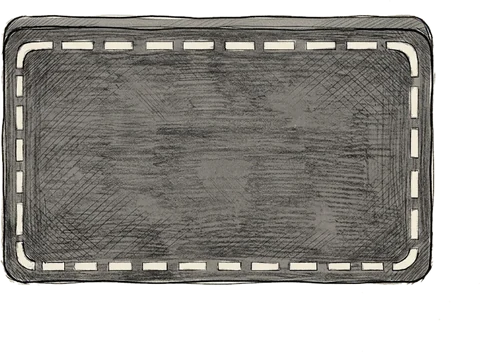
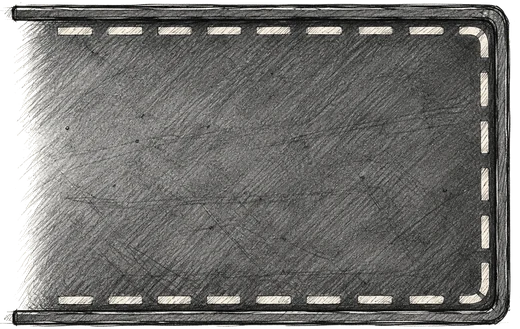
Swap in new road, bay, car and pit-crew art; 10 crew markers; render the crew dialog in a portal
Claude-Session: https://claude.ai/code/session_017xBw5gitytdq9UBNa5UPak

diff --git a/src/components/PitTrack.tsx b/src/components/PitTrack.tsx
@@ -4,12 +4,12 @@ import { steps } from '../content/site'
 import { ROAD_WIDTH, ROAD_X, carPlacement, carStopIndex, type Stop } from '../lib/pitTrack'
 import styles from './PitTrack.module.css'
 
-const BAY_HEIGHT = 112
+const BAY_HEIGHT = 110
 const BAY_MAX_WIDTH = 170
-const ROAD_TILE_W = 76
-const ROAD_TILE_H = 230
-const CAR_W = 54
-const CAR_H = 73
+const ROAD_TILE_W = 60
+const ROAD_TILE_H = 262
+const CAR_W = 53
+const CAR_H = 84
 
 type Layout = {
   width: number
@@ -82,8 +82,8 @@ export function PitTrack({ band, current, reduce }: Props) {
   useEffect(() => {
     if (!layout) return
     const bayX = (card: Layout['cards'][number]) => {
-      const x = ROAD_X + ROAD_WIDTH / 2 - 16
-      return x + Math.min(BAY_MAX_WIDTH, Math.max(60, card.left - 12 - x)) / 2 + 12
+      const x = ROAD_X + ROAD_WIDTH / 2 - 6
+      return x + Math.min(BAY_MAX_WIDTH, Math.max(60, card.left - 12 - x)) / 2 + 8
     }
     stopsRef.current = layout.cards.map((card) => ({ y: (card.top + card.bottom) / 2, bayX: bayX(card) }))
     centersRef.current = stopsRef.current.map((stop) => stop.y)
@@ -96,7 +96,7 @@ export function PitTrack({ band, current, reduce }: Props) {
   const bayLeft = ROAD_X + ROAD_WIDTH / 2
 
   const bays = layout.cards.map((card, i) => {
-    const x = bayLeft - 16
+    const x = bayLeft - 6
     return {
       key: steps[i].key,
       on: current === i,
@@ -128,8 +128,8 @@ export function PitTrack({ band, current, reduce }: Props) {
       <rect x={ROAD_X - ROAD_TILE_W / 2} y={layout.top} width={ROAD_TILE_W} height={layout.bottom - layout.top} fill="url(#road-tile)" />
       {layout.cards.map((card, i) => {
         const on = current === i
-        const bayW = Math.min(BAY_MAX_WIDTH, Math.max(60, card.left - 12 - (bayLeft - 16)))
-        const cx = bayLeft - 16 + bayW / 2 + 12
+        const bayW = Math.min(BAY_MAX_WIDTH, Math.max(60, card.left - 12 - (bayLeft - 6)))
+        const cx = bayLeft - 6 + bayW / 2 + 8
         const mid = (card.top + card.bottom) / 2
         const cy = mid - BAY_HEIGHT / 2 + 24
         return (

diff --git a/src/components/PitCrewEgg.tsx b/src/components/PitCrewEgg.tsx
@@ -1,4 +1,5 @@
 import { useEffect, useRef, useState } from 'react'
+import { createPortal } from 'react-dom'
 import { AnimatePresence, motion } from 'framer-motion'
 import { useLocale } from '../context/LocaleContext'
 import { crewSpots } from '../content/crew'
@@ -41,6 +42,7 @@ export function PitCrewEgg() {
       >
         <span aria-hidden="true">{egg.glyph}</span>
       </button>
+      {createPortal(
       <AnimatePresence>
         {open ? (
           <motion.div
@@ -76,7 +78,7 @@ export function PitCrewEgg() {
               <h3 className={styles.title}>{egg.title}</h3>
               <div className={styles.body}>
                 <div className={styles.art}>
-                  <img src="/images/egg/pitcrew.webp" alt="" width={765} height={1024} draggable={false} />
+                  <img src="/images/egg/pitcrew.webp" alt="" width={900} height={1200} draggable={false} />
                   {crewSpots.map((spot, i) => (
                     <span key={spot.role} className={styles.marker} style={{ left: `${spot.x}%`, top: `${spot.y}%` }}>
                       {i + 1}
@@ -93,7 +95,9 @@ export function PitCrewEgg() {
             </motion.div>
           </motion.div>
         ) : null}
-      </AnimatePresence>
+      </AnimatePresence>,
+      document.body,
+      )}
     </>
   )
 }

diff --git a/src/content/crew.ts b/src/content/crew.ts
@@ -12,7 +12,6 @@ export const crewRoles = [
   'cnc',
   'finishing',
   'qc',
-  'packing',
   'logistics',
   'installer',
 ] as const
@@ -27,15 +26,14 @@ export type CrewSpot = {
 }
 
 export const crewSpots: readonly CrewSpot[] = [
-  { role: 'manager', x: 52, y: 7 },
-  { role: 'estimator', x: 17, y: 18 },
-  { role: 'engineer', x: 85, y: 18 },
-  { role: 'designer', x: 14, y: 33 },
-  { role: 'contracts', x: 88, y: 32 },
-  { role: 'cnc', x: 14, y: 50 },
-  { role: 'finishing', x: 93, y: 47 },
-  { role: 'qc', x: 14, y: 68 },
-  { role: 'packing', x: 86, y: 62 },
-  { role: 'logistics', x: 87, y: 79 },
-  { role: 'installer', x: 50, y: 92 },
+  { role: 'manager', x: 50, y: 6 },
+  { role: 'estimator', x: 21, y: 12 },
+  { role: 'engineer', x: 75, y: 14 },
+  { role: 'designer', x: 19, y: 30 },
+  { role: 'contracts', x: 85, y: 32 },
+  { role: 'cnc', x: 12, y: 47 },
+  { role: 'finishing', x: 17, y: 64 },
+  { role: 'qc', x: 84, y: 64 },
+  { role: 'logistics', x: 75, y: 79 },
+  { role: 'installer', x: 49, y: 89 },
 ]

diff --git a/src/lib/pitTrack.ts b/src/lib/pitTrack.ts
@@ -1,7 +1,7 @@
 /** Geometry of the pit-lane road that runs beside the "How we work" cards. */
 
 export const ROAD_X = 113
-export const ROAD_WIDTH = 56
+export const ROAD_WIDTH = 60
 
 function smooth(t: number): number {
   return t * t * (3 - 2 * t)
@@ -26,7 +26,7 @@ export function carStopIndex(line: number, centers: readonly number[]): number {
   let k = 0
   while (k < last - 1 && line >= centers[k + 1]) k += 1
   const frac = (line - centers[k]) / (centers[k + 1] - centers[k])
-  return k + smooth(Math.min(1, Math.max(0, (frac - 0.25) / 0.5)))
+  return k + smooth(Math.min(1, Math.max(0, (frac - 0.15) / 0.7)))
 }
 
 /** Where the car is for a fractional stop index: on the road, or pulled into a bay. */

diff --git a/src/i18n/uk.ts b/src/i18n/uk.ts
@@ -69,7 +69,6 @@ export const uk: SiteCopy = {
         cnc: 'Оператор ЧПК',
         finishing: 'Оздоблення',
         qc: 'Контроль якості',
-        packing: 'Пакування',
         logistics: 'Логіст',
         installer: 'Монтажник',
       },

diff --git a/src/i18n/ru.ts b/src/i18n/ru.ts
@@ -69,7 +69,6 @@ export const ru: SiteCopy = {
         cnc: 'Оператор ЧПУ',
         finishing: 'Отделка',
         qc: 'Контроль качества',
-        packing: 'Упаковка',
         logistics: 'Логист',
         installer: 'Монтажник',
       },

diff --git a/src/i18n/en.ts b/src/i18n/en.ts
@@ -211,7 +211,6 @@ export const en: SiteCopy = {
         cnc: 'CNC operator',
         finishing: 'Finishing',
         qc: 'Quality control',
-        packing: 'Packing',
         logistics: 'Logistics',
         installer: 'Installer',
       },
